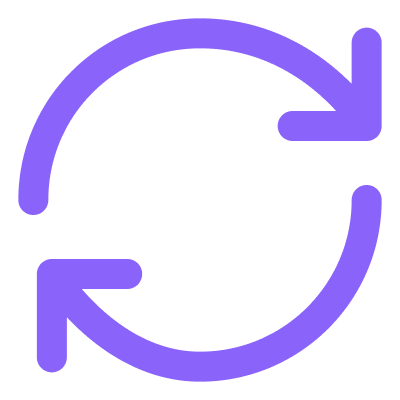
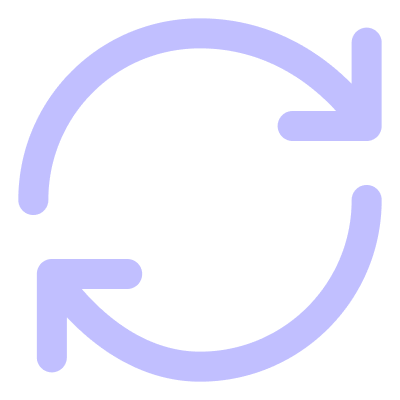
up 26

Changed region(s): [[0.03, 0.03, 0.96, 0.54], [0.09, 0.45, 0.96, 0.96]]

diff --git a/Views/FaxPage.xaml b/Views/FaxPage.xaml
@@ -27,13 +27,13 @@
                     <ListBox ScrollViewer.VerticalScrollBarVisibility="Hidden" ScrollViewer.HorizontalScrollBarVisibility="Hidden" BorderThickness="0" MaxHeight="145" Background="Transparent" DragEnter="SelectFileViwe_DragEnter" DragOver="SelectFileViwe_DragOver" AllowDrop="True" Drop="SelectFileViwe_Drop" Grid.Row="0" x:Name="SelectFileViwe" Margin="0,15,0,5"  HorizontalAlignment="Center" MinWidth="100" HorizontalContentAlignment="Center" Width="213" VerticalAlignment="Top" Height="145" >
 
                     </ListBox>
-                    <Grid Grid.Row="1" Margin="10,0,0,0">
+                    <Grid Grid.Row="1">
                         <Grid.Resources>
                             <Style TargetType="Button">
                                 <Setter Property="Template">
                                     <Setter.Value>
                                         <ControlTemplate TargetType="Button">
-                                            <Border Cursor="Hand" Background="#FF8A63FB" CornerRadius="15">
+                                            <Border Cursor="Hand" Background="#FFE5E5FF" CornerRadius="6">
                                                 <ContentPresenter HorizontalAlignment="Center" VerticalAlignment="Center"/>
                                             </Border>
                                         </ControlTemplate>
@@ -41,11 +41,11 @@
                                 </Setter>
                             </Style>
                         </Grid.Resources>
-                        <Button BorderThickness="0" ToolTipService.ToolTip="Send Fax" ToolTipService.Placement="Mouse" Grid.Column="1" Content="Send" x:Name="Send" Click="Send_Click" VerticalAlignment="Top" Margin="0,275,10,0" Background="#FF8A63FB" Width="148" Height="32" FontSize="18" FontFamily="Jost" Foreground="#E4FFFFFF" Padding="0,0,0,0" HorizontalContentAlignment="Center" VerticalContentAlignment="Center" HorizontalAlignment="Center" FontWeight="Bold"/>
-                        <Border Padding="1" CornerRadius="4" BorderThickness="1" VerticalAlignment="Top" BorderBrush="#FFBBBAFF" Width="213" Height="32" Margin="0,173,0,0">
+                        <Button BorderThickness="0" ToolTipService.ToolTip="Send Fax" ToolTipService.Placement="Mouse" Grid.Column="1" Content="Send" x:Name="Send" Click="Send_Click" VerticalAlignment="Top" Margin="0,275,0,0" Background="#FF8A63FB" Width="213" Height="36" FontSize="18" FontFamily="Jost" Foreground="#FF7B76FF" Padding="0,0,0,0" HorizontalContentAlignment="Center" VerticalContentAlignment="Center" HorizontalAlignment="Center" FontWeight="Bold"/>
+                        <Border Padding="1" CornerRadius="4" BorderThickness="1" VerticalAlignment="Top" BorderBrush="#FFD1D0FF" Width="213" Height="32" Margin="0,173,0,0">
                             <TextBox GotFocus="FaxNumber_GotFocus" LostFocus="FaxNumber_LostFocus" Text="Fax number" BorderThickness="0" Grid.Column="1" x:Name="FaxNumber" FontFamily="Nunito Sans 10pt Normal" Foreground="#FFC3C3C4" Padding="6,0,6,0" FontSize="14"  VerticalContentAlignment="Center"/>
                         </Border>
-                        <Border Padding="1" CornerRadius="4" BorderThickness="1" VerticalAlignment="Top" BorderBrush="#FFBBBAFF" Width="213" Height="32"  Margin="0,219,0,0">
+                        <Border Padding="1" CornerRadius="4" BorderThickness="1" VerticalAlignment="Top" BorderBrush="#FFD1D0FF" Width="213" Height="32"  Margin="0,219,0,0">
                             <TextBox GotFocus="FaxEmail_GotFocus" LostFocus="FaxEmail_LostFocus" Text="Notify Email" BorderThickness="0" Grid.Column="1" x:Name="FaxEmail"  FontFamily="Nunito Sans 10pt Normal" HorizontalAlignment="Stretch" VerticalAlignment="Stretch" Foreground="#FFC3C3C4" Padding="6,6,6,0" FontSize="14"/>
                         </Border>
                     </Grid>

diff --git a/Views/ControlPages/AdditionPage.xaml b/Views/ControlPages/AdditionPage.xaml
@@ -132,6 +132,6 @@
         <TextBlock Text="Microphone" Margin="18,196,0,0" HorizontalAlignment="Left" VerticalAlignment="Top" Foreground="#FFADADAD"/>
         <ComboBox MaxDropDownHeight="90" ScrollViewer.VerticalScrollBarVisibility="Hidden" x:Name="Microphones" Background="Transparent" Width="213" Margin="18,219,0,0" BorderBrush="#FFBBBAFF" FontFamily="Nunito Sans 10pt Normal" FontSize="14"  Foreground="#FF252422" HorizontalAlignment="Left" VerticalAlignment="Top" Grid.ColumnSpan="2"/>
         <TextBlock Text="Version:" HorizontalAlignment="Left" VerticalAlignment="Top" Foreground="#FFC1BFFF" FontFamily="Nunito Sans 10pt Normal" Margin="12,275,0,0"/>
-        <TextBlock Text="1.0.0.13" HorizontalAlignment="Left" VerticalAlignment="Top" Foreground="#FFC1BFFF" FontFamily="Nunito Sans 10pt Normal" Margin="185,275,0,0"/>
+        <TextBlock Text="1.0.0.15" HorizontalAlignment="Left" VerticalAlignment="Top" Foreground="#FFC1BFFF" FontFamily="Nunito Sans 10pt Normal" Margin="185,275,0,0"/>
     </Grid>
 </Page>

diff --git a/Views/HistoryPage.xaml.cs b/Views/HistoryPage.xaml.cs
@@ -1,6 +1,7 @@
 using System;
 using System.Collections.Generic;
 using System.Linq;
+using System.Threading.Tasks;
 using System.Windows;
 using System.Windows.Controls;
 using System.Windows.Media;
@@ -17,18 +18,13 @@ namespace VoiceX.Views
     public sealed partial class HistoryPage : Page, IMoreItems  
     {
         readonly AddDbContext addDbContext;
-        readonly List<HistoryNote> histories;
         RadioButton filter;
-        readonly WebService webService;
-        
         public HistoryPage()
         {
             this.InitializeComponent();
             addDbContext = new AddDbContext();
-            histories = new List<HistoryNote>();
             addDbContext = new AddDbContext();
             filter = new RadioButton();
-            webService = new WebService();
             AddDbContext.ChangeHystory += AddDbContext_ChangeHystory;
         }
 
@@ -36,7 +32,7 @@ namespace VoiceX.Views
         {
             var time = historyNote.EndDialog - historyNote.StartDialog;
             string textTime = time.Minutes == 0 ? $"({time.Seconds}s.)" : $"({time.Minutes}m. {time.Seconds}s.)";
-            var note = new HistoryNote(historyNote.Name, historyNote.Phone, historyNote.StartDialog, textTime, historyNote.StatusCall);
+            var note = new HistoryNote(historyNote.Name!, historyNote.Phone!, historyNote.StartDialog, textTime, historyNote.StatusCall);
             if (filter.Name == "OutCall" && historyNote.StatusCall == Enums.StatusCall.Outgoing)
             {
                 if (HistoryList.Items.Count == 0)
@@ -85,13 +81,18 @@ namespace VoiceX.Views
         }
 
         private void HistoryPage_Loaded(object sender, RoutedEventArgs e)
-        {         
+        {
             List<HistoryNotes> historyNotes = addDbContext.GetNotes(50);
+            FillListBox(historyNotes, 0);
+            filter.Name = "AllCall";
+        }
+        public void FillListBox(List<HistoryNotes> historyNotes, int quality)
+        {
             HistoryList.Items.Clear();
-            histories.Clear();
             var groupNote = historyNotes.GroupBy(h => h.EndDialog.Date).OrderByDescending(h => h.Key);
             foreach (var group in groupNote)
             {
+                quality++;
                 HistoryList.Items.Add(new HeadingContactList(group.Key.ToString("d.M.yyyy")));
                 foreach (var Note in group.OrderByDescending(h => h.EndDialog))
                 {
@@ -105,16 +106,14 @@ namespace VoiceX.Views
                     {
                         textTime = "(0s.)";
                     }
-                    var note = new HistoryNote(Note.Name, Note.Phone, Note.EndDialog, textTime, Note.StatusCall);
+                    var note = new HistoryNote(Note.Name!, Note.Phone!, Note.EndDialog, textTime, Note.StatusCall);
                     HistoryList.Items.Add(note);
-                    histories.Add(note);
                 }
             }
-            if (histories.Count == 50)
+            if (HistoryList.Items.Count == quality + 50)
             {
                 HistoryList.Items.Add(new MoreItems(this));
             }
-            filter.Name = "AllCall";
         }
         private void Filter_Checked(object sender, RoutedEventArgs e)
         {
@@ -127,7 +126,6 @@ namespace VoiceX.Views
             var textCalor = new SolidColorBrush(Color.FromArgb(255, 160, 160, 160));
             var darkTextColor = new SolidColorBrush(Color.FromArgb(255, 37, 36, 34));
             var whiteLine = new SolidColorBrush(Color.FromArgb(255, 245, 246, 247));
-            HistoryList.Items.Clear();
             if (filter.Name == "OutCall")
             {
                 AllText.Foreground = textCalor;
@@ -140,14 +138,9 @@ namespace VoiceX.Views
                 ChekIn.Background = whiteLine;
                 CheckAll.Background = whiteLine;
                 ChekIgnore.Background = whiteLine;
-                foreach (var group in histories.Where(h => h.statusCall == Enums.StatusCall.Outgoing).GroupBy(h => h.dateCall.Date).OrderByDescending(h => h.Key))
-                {
-                    HistoryList.Items.Add(new HeadingContactList(group.Key.ToString("d.M.yyyy")));
-                    foreach (var note in group.OrderByDescending(g => g.dateCall))
-                    {
-                        HistoryList.Items.Add(note);
-                    }
-                }
+
+                List<HistoryNotes> historyNotes = addDbContext.GetNotes(50, Enums.StatusCall.Outgoing);
+                FillListBox(historyNotes, 0);
             }
             else if(filter.Name == "InCall")
             {
@@ -160,14 +153,9 @@ namespace VoiceX.Views
                 ChekIn.Background = blueLine;
                 CheckAll.Background = whiteLine;
                 ChekIgnore.Background = whiteLine;
-                foreach (var group in histories.Where(h => h.statusCall == Enums.StatusCall.Incoming).GroupBy(h => h.dateCall.Date).OrderByDescending(h => h.Key))
-                {
-                    HistoryList.Items.Add(new HeadingContactList(group.Key.ToString("d.M.yyyy")));
-                    foreach (var note in group.OrderByDescending(g => g.dateCall))
-                    {
-                        HistoryList.Items.Add(note);
-                    }
-                }
+
+                List<HistoryNotes> historyNotes = addDbContext.GetNotes(50, Enums.StatusCall.Incoming);
+                FillListBox(historyNotes, 0);
             }
             else if(filter.Name == "AllCall")
             {
@@ -180,14 +168,9 @@ namespace VoiceX.Views
                 ChekIn.Background = whiteLine;
                 CheckAll.Background = blueLine;
                 ChekIgnore.Background = whiteLine;
-                foreach (var group in histories.GroupBy(h => h.dateCall.Date).OrderByDescending(h => h.Key))
-                {
-                    HistoryList.Items.Add(new HeadingContactList(group.Key.ToString("d.M.yyyy")));
-                    foreach (var note in group.OrderByDescending(g => g.dateCall))
-                    {
-                        HistoryList.Items.Add(note);
-                    }
-                }
+
+                List<HistoryNotes> historyNotes = addDbContext.GetNotes(50);
+                FillListBox(historyNotes, 0);
             }
             else if (filter.Name == "IgnoreCall")
             {
@@ -200,40 +183,34 @@ namespace VoiceX.Views
                 ChekIn.Background = whiteLine;
                 CheckAll.Background = whiteLine;
                 ChekIgnore.Background = blueLine;
-                foreach (var group in histories.Where(h => h.statusCall == Enums.StatusCall.Ignore || h.statusCall == Enums.StatusCall.IncomeIgnore).GroupBy(h => h.dateCall.Date).OrderByDescending(h => h.Key))
-                {
-                    HistoryList.Items.Add(new HeadingContactList(group.Key.ToString("d.M.yyyy")));
-                    foreach (var note in group.OrderByDescending(g => g.dateCall))
-                    {
-                        HistoryList.Items.Add(note);
-                    }
-                }
+
+                List<HistoryNotes> historyNotes = addDbContext.GetNotes(50, Enums.StatusCall.Ignore);
+                FillListBox(historyNotes, 0);
             }
         }
 
         public void AddMoreNotes()
         {
-            int currentItems = histories.Count;
-            List<HistoryNotes> historyNotes = addDbContext.GetNotes(currentItems + 50);
-            HistoryList.Items.Clear();
-            histories.Clear();
-            var groupNote = historyNotes.GroupBy(h => h.StartDialog.Date).OrderByDescending(h => h.Key);
-            foreach (var group in groupNote)
+            int currentItems = HistoryList.Items.Count;
+            if (filter.Name == "OutCall")
             {
-                HistoryList.Items.Add(new HeadingContactList(group.Key.ToString("d.M.yyyy")));
-                foreach (var Note in group.OrderByDescending(h => h.StartDialog))
-                {
-                    var time = Note.EndDialog - Note.StartDialog;
-                    string textTime = time.Minutes == 0 ? $"({time.Seconds}s.)" : $"({time.Minutes}m. {time.Seconds}s.)";
-
-                    var note = new HistoryNote(Note.Name, Note.Phone, Note.StartDialog, textTime, Note.StatusCall);
-                    HistoryList.Items.Add(note);
-                    histories.Add(note);
-                }
+                List<HistoryNotes> historyNotes = addDbContext.GetNotes(currentItems + 50, Enums.StatusCall.Outgoing);
+                FillListBox(historyNotes, 0);
             }
-            if (histories.Count == currentItems + 50)
+            else if (filter.Name == "InCall")
             {
-                HistoryList.Items.Add(new MoreItems(this));
+                List<HistoryNotes> historyNotes = addDbContext.GetNotes(currentItems + 50, Enums.StatusCall.Incoming);
+                FillListBox(historyNotes, 0);
+            }
+            else if (filter.Name == "AllCall")
+            {
+                List<HistoryNotes> historyNotes = addDbContext.GetNotes(currentItems + 50);
+                FillListBox(historyNotes, 0);
+            }
+            else if (filter.Name == "IgnoreCall")
+            {
+                List<HistoryNotes> historyNotes = addDbContext.GetNotes(currentItems + 50, Enums.StatusCall.Ignore);
+                FillListBox(historyNotes, 0);
             }
         }
     }

diff --git a/DAL/Context/AddDbContext.cs b/DAL/Context/AddDbContext.cs
@@ -225,7 +225,52 @@ namespace VoiceX.DAL.Context
                 using (SqliteConnection connection = new SqliteConnection($@"Data Source={openPathDB};Cache=Shared;Mode=ReadWriteCreate;"))
                 {
                     connection.Open();
-                    string command = $"SELECT * FROM History ORDER BY datetime(StartDialog) DESC LIMIT {NumberItems};";
+                    string command = $"SELECT * FROM History ORDER BY datetime(EndDialog) DESC LIMIT {NumberItems};";
+                    SqliteCommand sqliteCommand = new SqliteCommand(command, connection);
+                    var reader = sqliteCommand.ExecuteReader();
+                    while (reader.Read())
+                    {
+                        historyNotes.Add(new HistoryNotes { Id = Guid.Parse(reader.GetString(0)), Name = reader.GetString(1), Phone = reader.GetString(2), StatusCall = reader.GetString(3) == "Outgoing" ? StatusCall.Outgoing : reader.GetString(3) == "Incoming" ? StatusCall.Incoming : reader.GetString(3) == "Ignore" ? StatusCall.Ignore : StatusCall.IncomeIgnore, StartDialog = DateTime.Parse(reader.GetString(4)), EndDialog = DateTime.Parse(reader.GetString(5)) });
+                    }
+                    connection.Close();
+                    connection.Dispose();
+                }
+            }
+            catch
+            {
+                return historyNotes;
+            }
+            return historyNotes;
+        }
+        public List<HistoryNotes> GetNotes(int NumberItems, StatusCall statusCall)
+        {
+            var path = Environment.GetFolderPath(Environment.SpecialFolder.UserProfile) + "\\Database";
+            List<HistoryNotes> historyNotes = new List<HistoryNotes>();
+            string openPathDB = Path.Combine(path + "\\HistoryDB.db");
+            string filter = "";
+            switch (statusCall)
+            {
+                case StatusCall.Outgoing:
+                    filter = "'Outgoing'";
+                    break;
+                case StatusCall.Incoming:
+                    filter = "'Incoming'";
+                    break;
+                case StatusCall.Ignore:
+                    filter = "'IncomeIgnore', 'Ignore'";
+                    break;
+                case StatusCall.IncomeIgnore:
+                    filter = "'IncomeIgnore', 'Ignore'";
+                    break;
+                default:
+                    break;
+            }
+            try
+            {
+                using (SqliteConnection connection = new SqliteConnection($@"Data Source={openPathDB};Cache=Shared;Mode=ReadWriteCreate;"))
+                {
+                    connection.Open();
+                    string command = $"SELECT * FROM History WHERE StatusCall IN ({filter}) ORDER BY datetime(EndDialog) DESC LIMIT {NumberItems};";
                     SqliteCommand sqliteCommand = new SqliteCommand(command, connection);
                     var reader = sqliteCommand.ExecuteReader();
                     while (reader.Read())

diff --git a/Views/FaxPage.xaml.cs b/Views/FaxPage.xaml.cs
@@ -151,25 +151,25 @@ namespace VoiceX.Views
         }
         private void SelectFileViwe_DragEnter(object sender, System.Windows.DragEventArgs e)
         {
-            if (e.Data.GetDataPresent(System.Windows.DataFormats.FileDrop))
+            if (e.Data.GetDataPresent(DataFormats.FileDrop))
             {
-                e.Effects = System.Windows.DragDropEffects.Copy;
+                e.Effects = DragDropEffects.Copy;
             }
             else
             {
-                e.Effects = System.Windows.DragDropEffects.None;
+                e.Effects = DragDropEffects.None;
             }
 
         }
         private void SelectFileViwe_DragOver(object sender, System.Windows.DragEventArgs e)
         {
-            if (e.Data.GetDataPresent(System.Windows.DataFormats.FileDrop))
+            if (e.Data.GetDataPresent(DataFormats.FileDrop))
             {
-                e.Effects = System.Windows.DragDropEffects.Copy;
+                e.Effects = DragDropEffects.Copy;
             }
             else
             {
-                e.Effects = System.Windows.DragDropEffects.None;
+                e.Effects = DragDropEffects.None;
             }
         }
         public void RemoveFile(FaxFileItem faxFileItem)